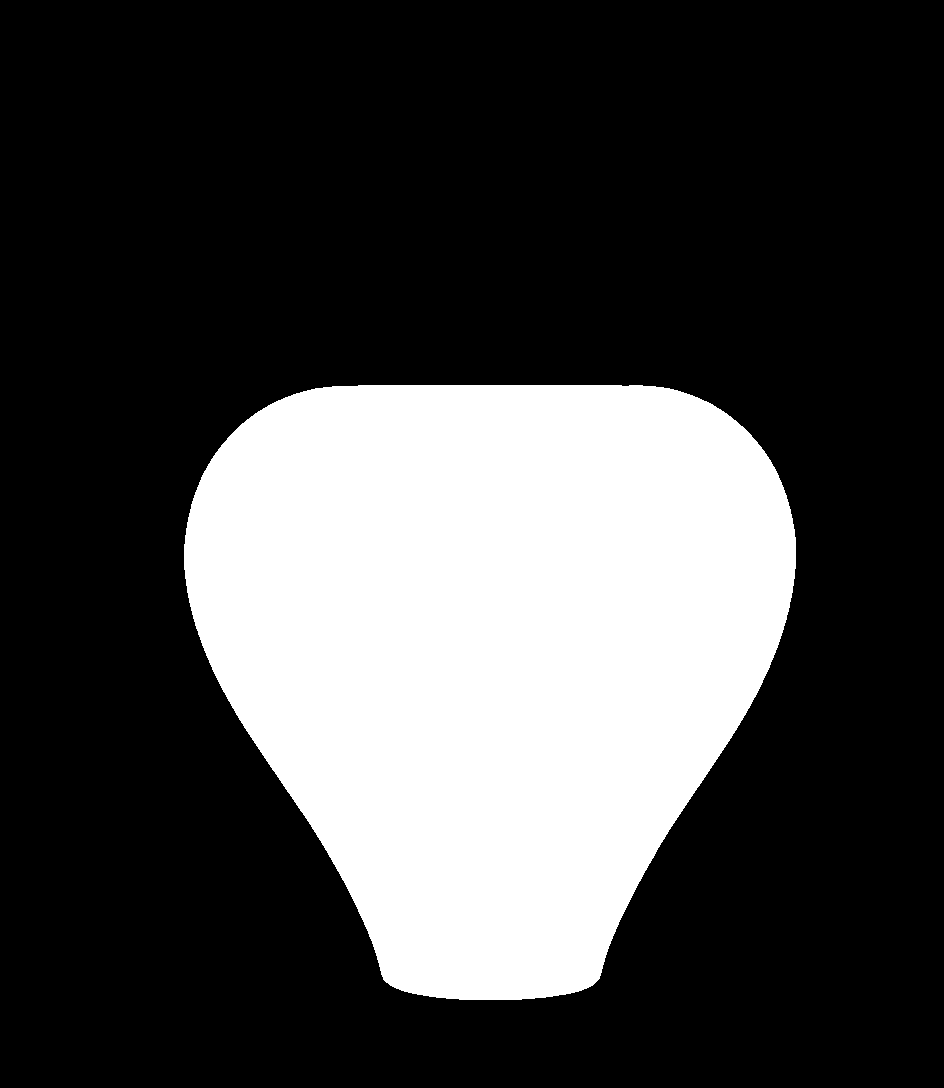
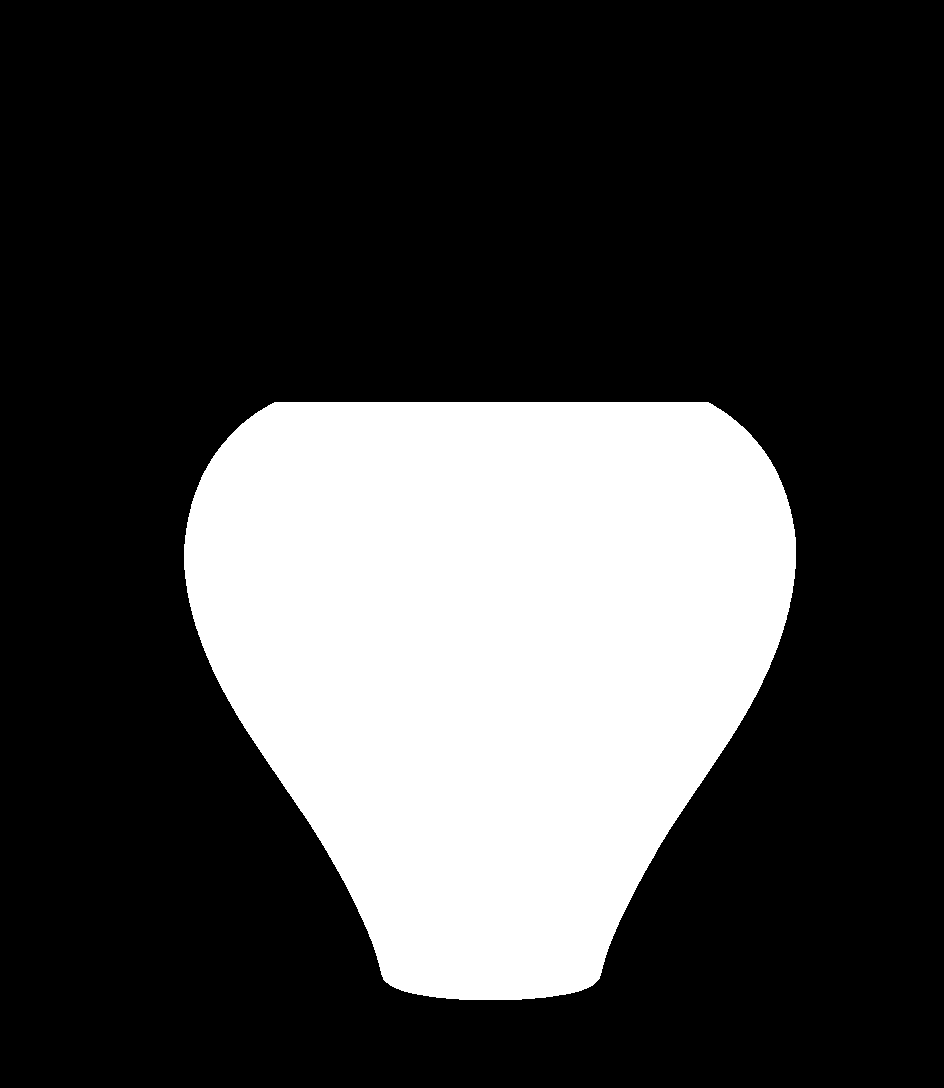
goal-image heart final: transparent widget, liquid capped below rope, no shine

Changed region(s): [[0.3072, 0.3438, 0.7373, 0.375]]

diff --git a/backend/src/widgets/goal-image.html b/backend/src/widgets/goal-image.html
@@ -87,7 +87,7 @@ document.documentElement.style.setProperty("--v-col", (function(){ const [r,g,b]
 
 /* أبعاد الصورة بتتقرأ من الصورة نفسها عند التحميل */
 let IMG_W = 1166, IMG_H = 1349;
-const TOP_Y_FRAC = { tik: 0.204, bottle: 0.12, heart: 0.354, flask: 0.12 };
+const TOP_Y_FRAC = { tik: 0.204, bottle: 0.12, heart: 0.381, flask: 0.12 };
 let topY = 275;
 
 let cur = Math.round(goal * 0.42);

diff --git a/eldaly-website/public/goal-image.html b/eldaly-website/public/goal-image.html
@@ -87,7 +87,7 @@ document.documentElement.style.setProperty("--v-col", (function(){ const [r,g,b]
 
 /* أبعاد الصورة بتتقرأ من الصورة نفسها عند التحميل */
 let IMG_W = 1166, IMG_H = 1349;
-const TOP_Y_FRAC = { tik: 0.204, bottle: 0.12, heart: 0.354, flask: 0.12 };
+const TOP_Y_FRAC = { tik: 0.204, bottle: 0.12, heart: 0.381, flask: 0.12 };
 let topY = 275;
 
 let cur = Math.round(goal * 0.42);
